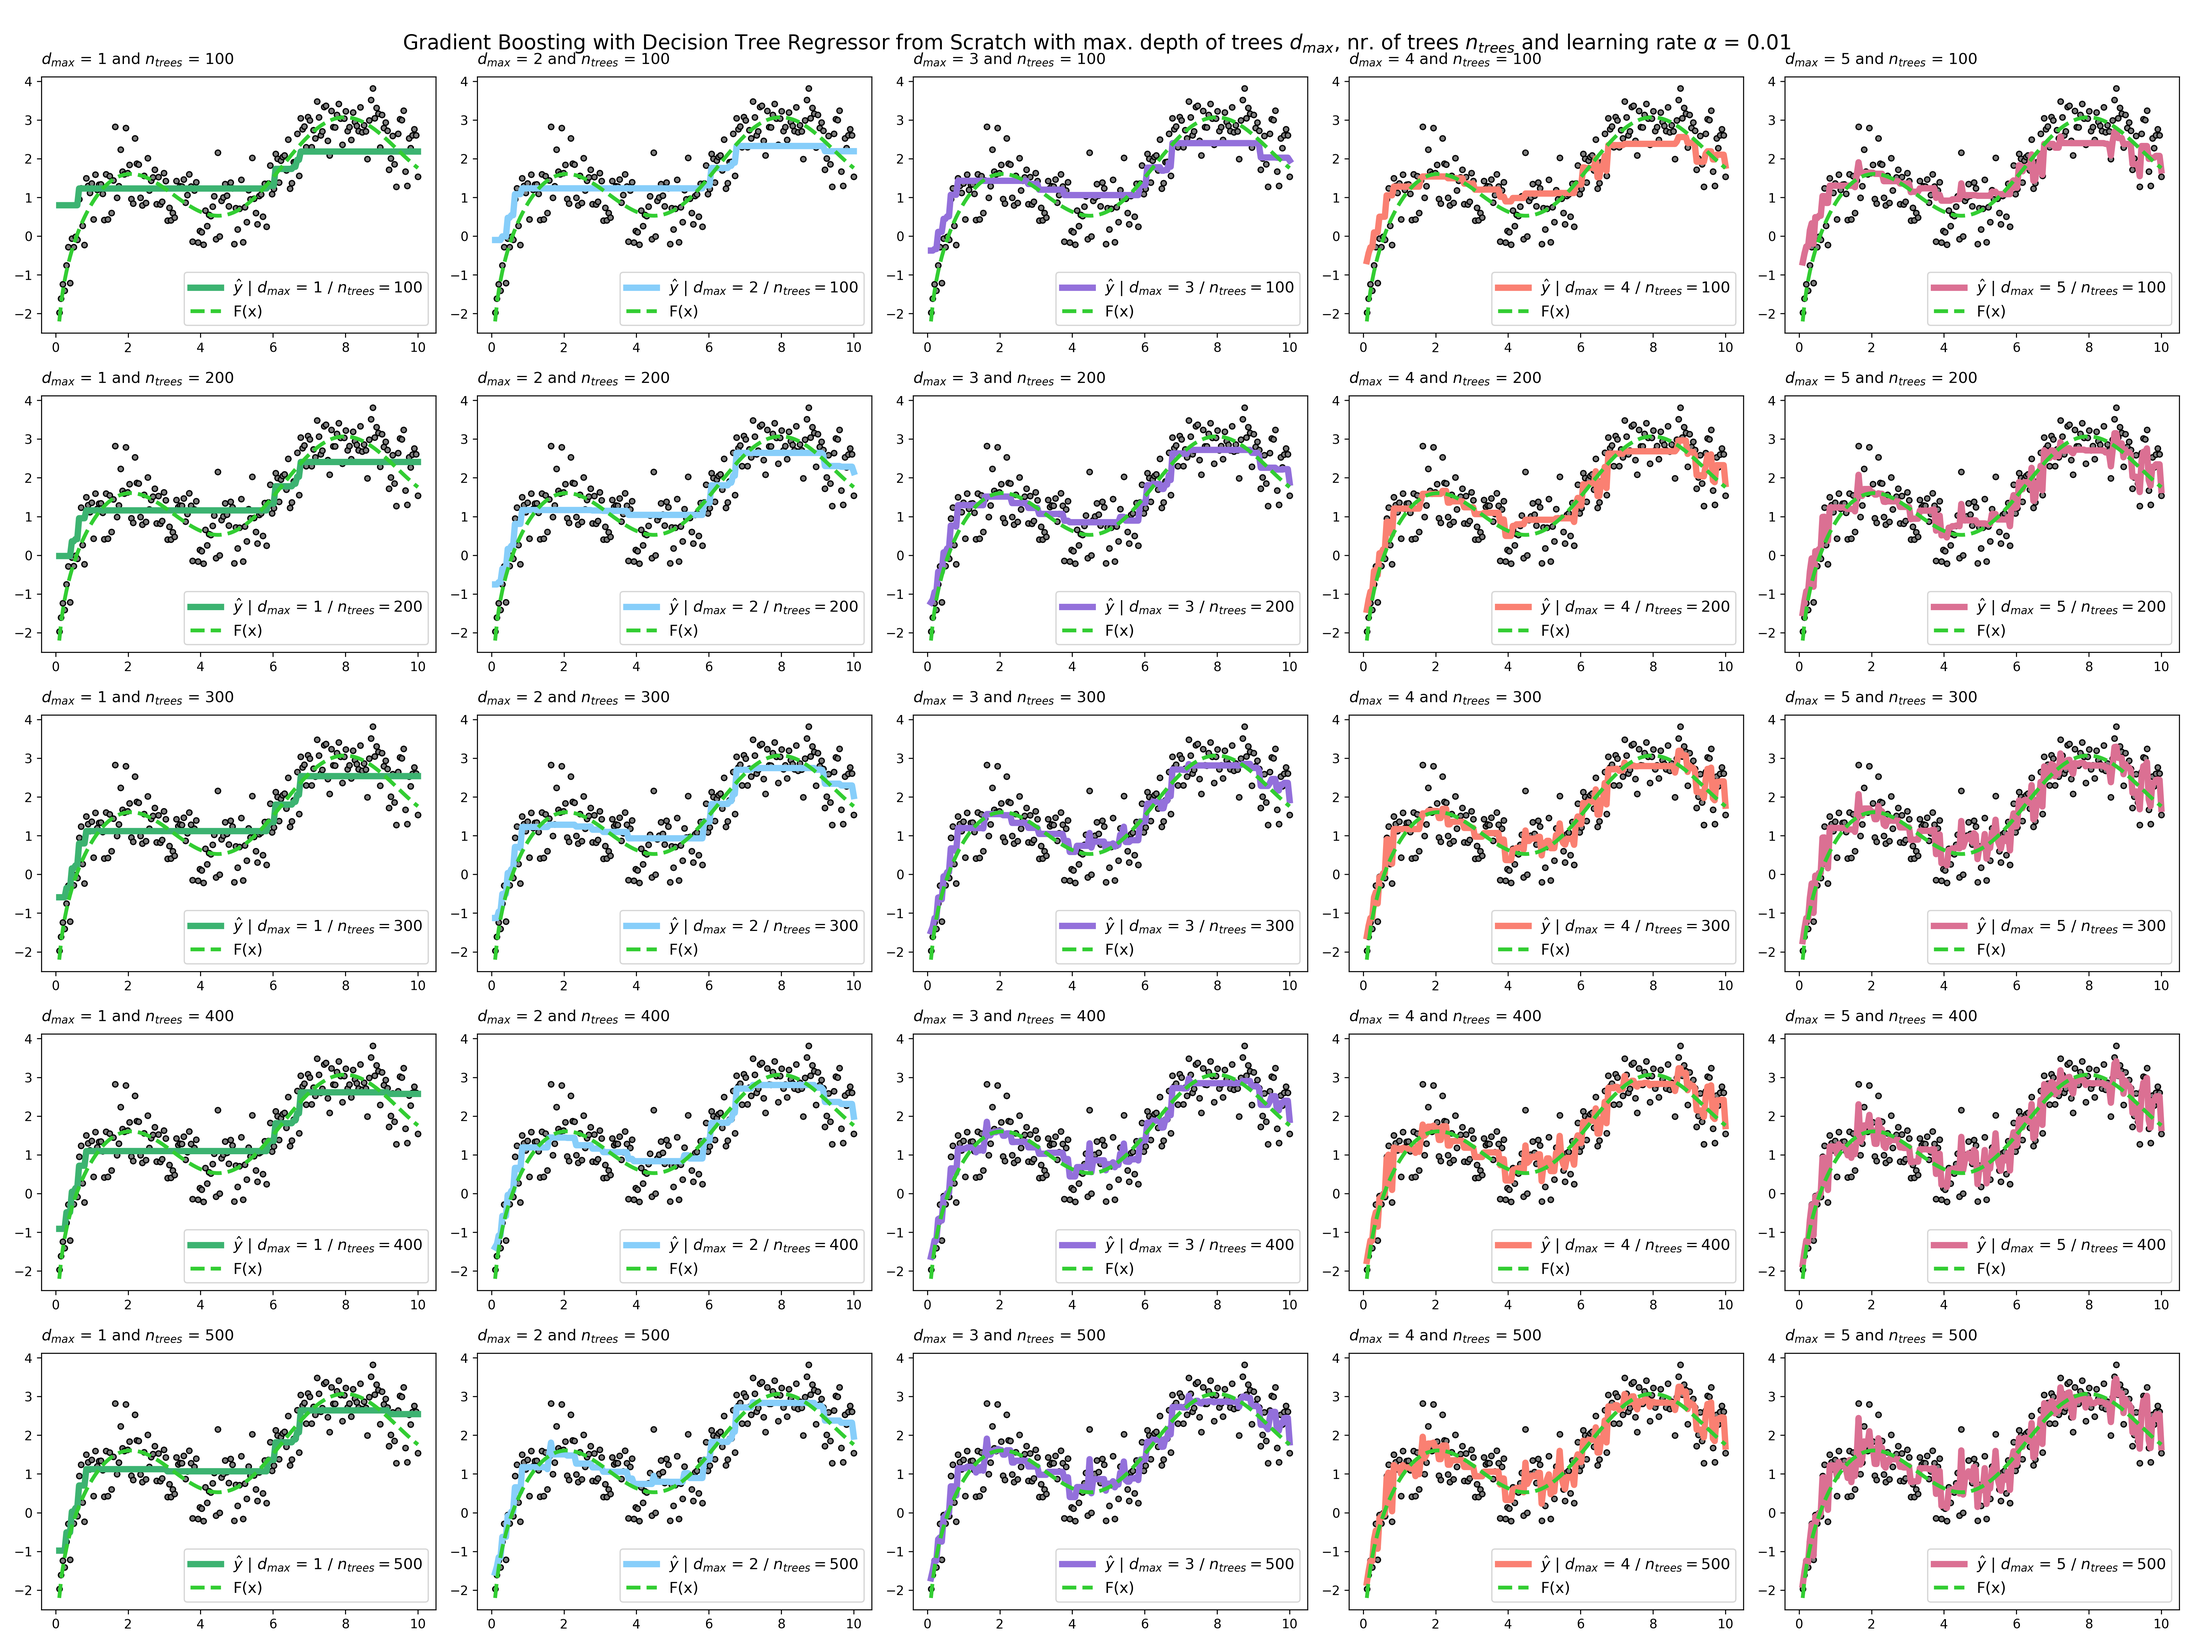
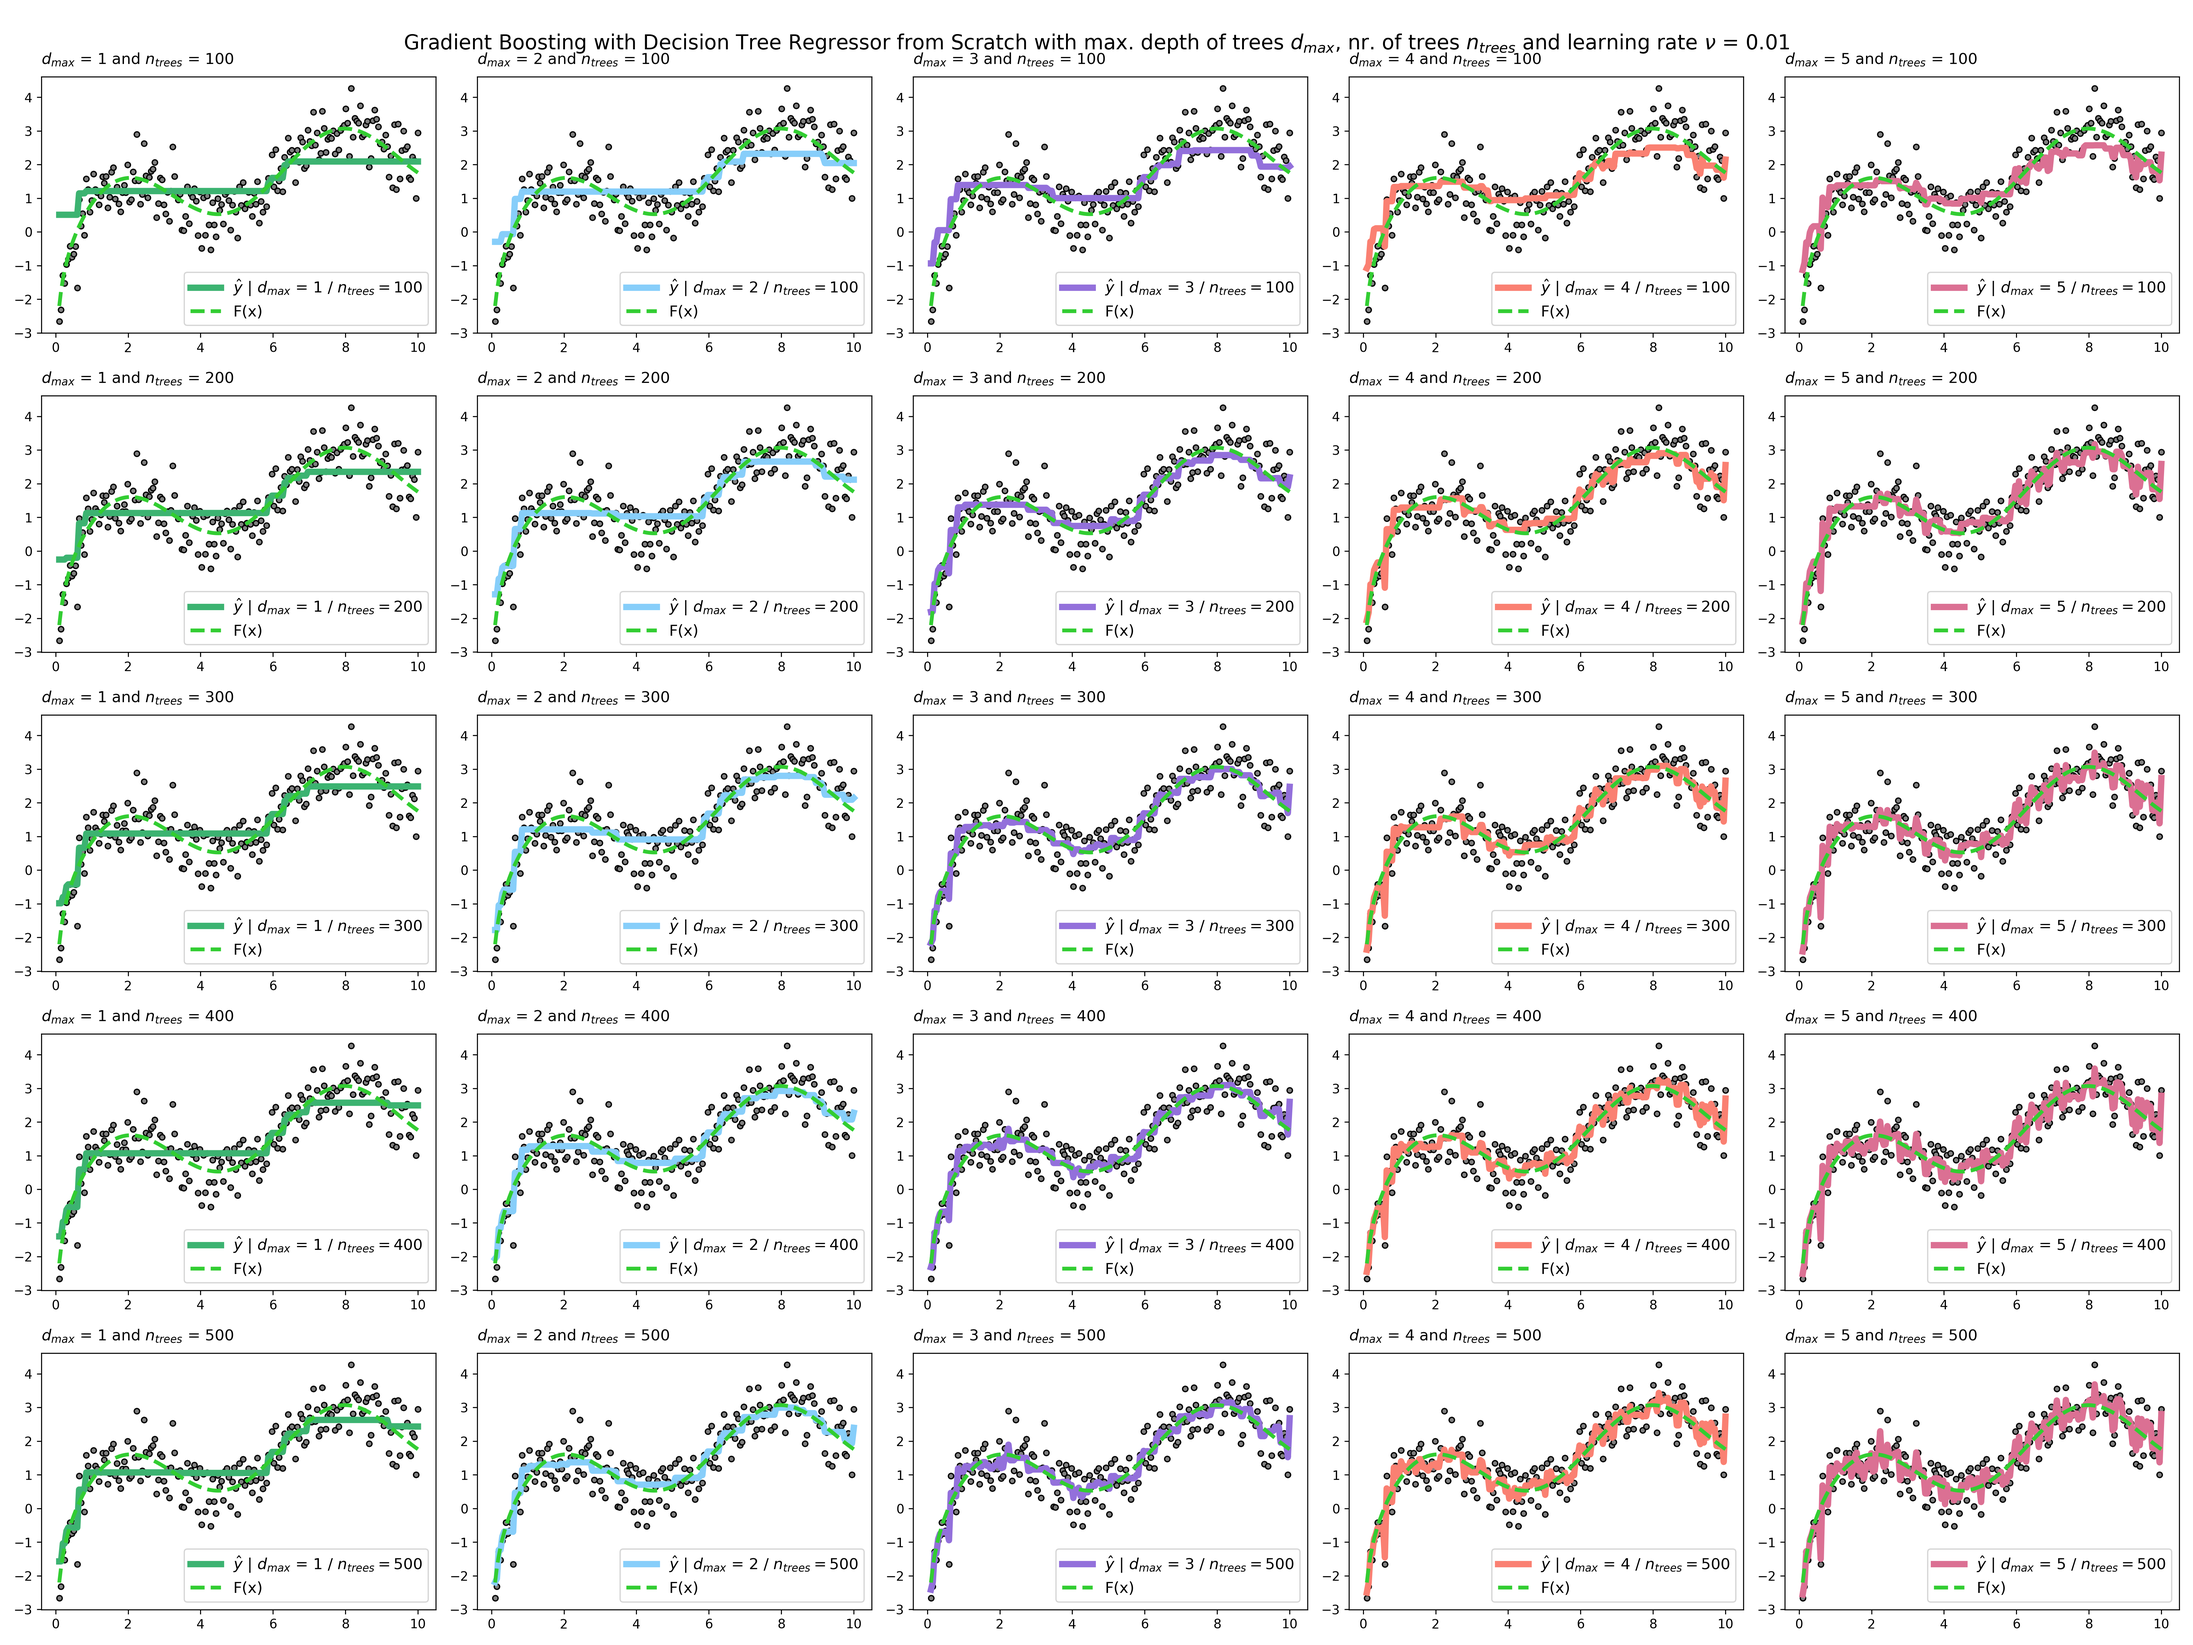
updated

diff --git a/from_scratch/bayesian_optimization_testfunction_best_hyperparameters.py b/from_scratch/bayesian_optimization_testfunction_best_hyperparameters.py
@@ -1,0 +1,67 @@
+"""
+Author: Maximilian Gschaider
+MN: 12030366
+"""
+########################################
+#official open-source repositories
+import sys
+import matplotlib.pyplot as plt
+import pandas as pd
+#own modules
+from gradient_boosting_from_scratch import GradientBoosting
+from testfunction import testfunction, X
+sys.path.append('../')
+from bs_ml.utils import repo_path, fontsize, fontsize_title
+
+########################################
+#testfunction
+Y = testfunction(X, noise = 0.5)
+Y_ = testfunction(X, noise = 0)
+
+X_0 = X.reshape(-1,1)
+
+########################################
+#hyperparameters
+
+filename = "params_bayes_testfunction_ip=10_ni=100_2023-09-18.csv"
+path = repo_path + "/models/" + filename
+params_gbm = pd.read_csv(path)
+
+params = ['max_depth','learning_rate','colsample_bytree','n_estimators']
+
+params_gbm = params_gbm.to_dict(orient = "list")
+params_gbm.pop("Unnamed: 0")
+
+max_depth = params_gbm[params[0]][0]
+learning_rate = params_gbm[params[1]][0]
+colsample_bytree = params_gbm[params[2]][0]
+n_trees = int(round(params_gbm[params[3]][0],1))
+
+########################################
+
+def plot_bo(save_plot) -> None:
+
+
+    fig, ax = plt.subplots(1)
+    fig.set_size_inches(12,8)
+    fig.suptitle('Gradient Boosting with Decision Tree Regressor from Scratch with best hyperparameter combination', fontsize = fontsize_title)
+
+    colors = ['mediumseagreen','lightskyblue',"mediumpurple",'salmon',"palevioletred"]
+
+    gbm = GradientBoosting(learning_rate, max_depth, n_trees, X_0, Y)
+    gbm.fit(X_0,Y)
+    y_hat, _ = gbm.predict(X_0)
+    ax.plot(X, y_hat, color = colors[1], label = "$\hat{y}(x)$", linewidth = 5)
+    ax.set_title('$d_{max}$ = ' + str(max_depth) + '/ $n_{trees}$ = ' + str(n_trees) + '/ $\\nu$ = ' + str(learning_rate) + '/ $\\epsilon$ = ' + str(colsample_bytree), loc = 'left', pad=10, fontsize = fontsize)
+    ax.scatter(X,Y,color = 'gray', marker='o', edgecolors='k', s=18, label = "sample points")
+    ax.set_xlabel("x")
+    ax.set_ylabel("F(x)")
+    ax.plot(X, Y_, color = colors[3], linestyle = "--", linewidth = 3, label = "F(x)")
+    ax.legend(fontsize = fontsize)
+
+    fig.tight_layout()
+    if save_plot == True:
+        plt.savefig(repo_path + "/figures/" + "gbm_with_decision_tree_best_parameters.png", dpi=300)
+    plt.show()
+
+plot_bo(save_plot = True)

diff --git a/from_scratch/gbm_method.py b/from_scratch/gbm_method.py
@@ -46,7 +46,7 @@ def gbm_dt_comparison(plot_save) -> None:
 	plt.plot(X, Y_, color = 'limegreen', linestyle = "--", linewidth = 5, label = "F(x)")
 	plt.legend(fontsize = fontsize)
 	fig = plt.gcf()
-	fig.set_size_inches(12,10)
+	fig.set_size_inches(16,12)
 	fig.tight_layout()
 	if plot_save == True:
 		plt.savefig(repo_path + "/figures/" + "gbm_decision_tree_comparison.png", dpi=300)
@@ -61,7 +61,7 @@ def hyperparameters_matrix(save_plot) -> None:
 	k = 5
 	fig, axs = plt.subplots(k,k)
 	fig.set_size_inches(24,18)
-	fig.suptitle('Gradient Boosting with Decision Tree Regressor from Scratch with max. depth of trees $d_{max}$, nr. of trees $n_{trees}$ and learning rate $\\alpha$ = ' + str(learning_rate), fontsize = fontsize_title)
+	fig.suptitle('Gradient Boosting with Decision Tree Regressor from Scratch with max. depth of trees $d_{max}$, nr. of trees $n_{trees}$ and learning rate $\\nu$ = ' + str(learning_rate), fontsize = fontsize_title)
 
 	colors = ['mediumseagreen','lightskyblue',"mediumpurple",'salmon',"palevioletred"]
 

diff --git a/from_scratch/bayesian_optimization_testfunction.py b/from_scratch/bayesian_optimization_testfunction.py
@@ -49,7 +49,7 @@ params_gbm = {"learning_rate":(0.01,0.2),"max_depth":(1,10),"n_estimators":(100,
 
 #n_iter:  How many steps of bayesian optimization you want to perform. The more steps the more likely to find a good maximum you are.
 #init_points: How many steps of random exploration you want to perform. Random exploration can help by diversifying the exploration space.
-init_points = 10 ; n_iter = 100
+init_points = 5 ; n_iter = 10
 
 pbounds = params_gbm
 bounds_transformer = SequentialDomainReductionTransformer() #minimum_window=0.5
@@ -89,7 +89,8 @@ gc.collect()
 
 gbm_bo.maximize(init_points = init_points, n_iter = n_iter)
 
-
+iterations = gbm_bo.res()
+print(iterations)
 
 print('It takes %s minutes' %((time.time()-st)/60))
 
